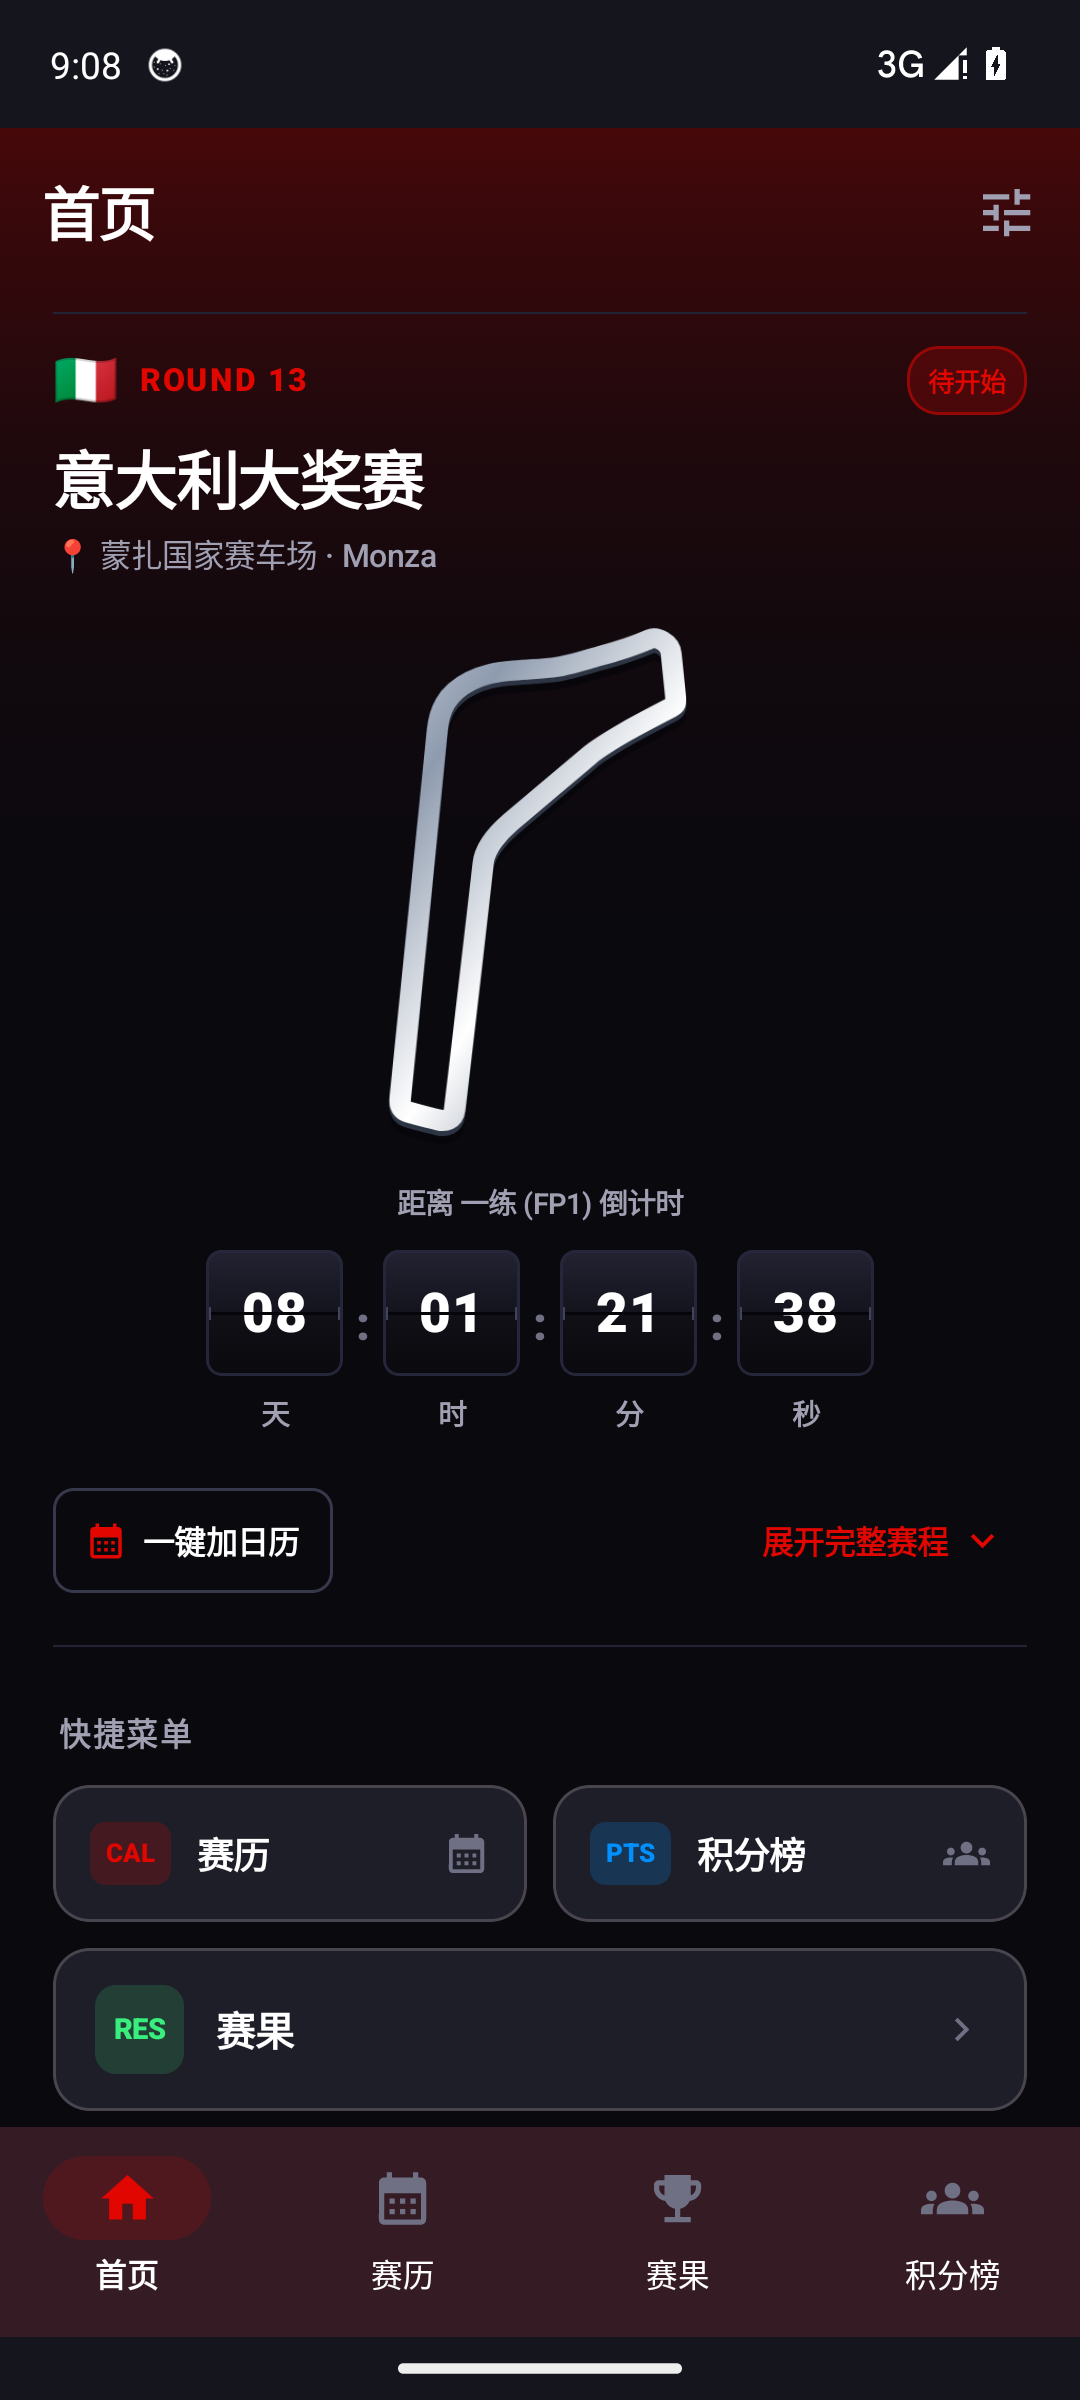
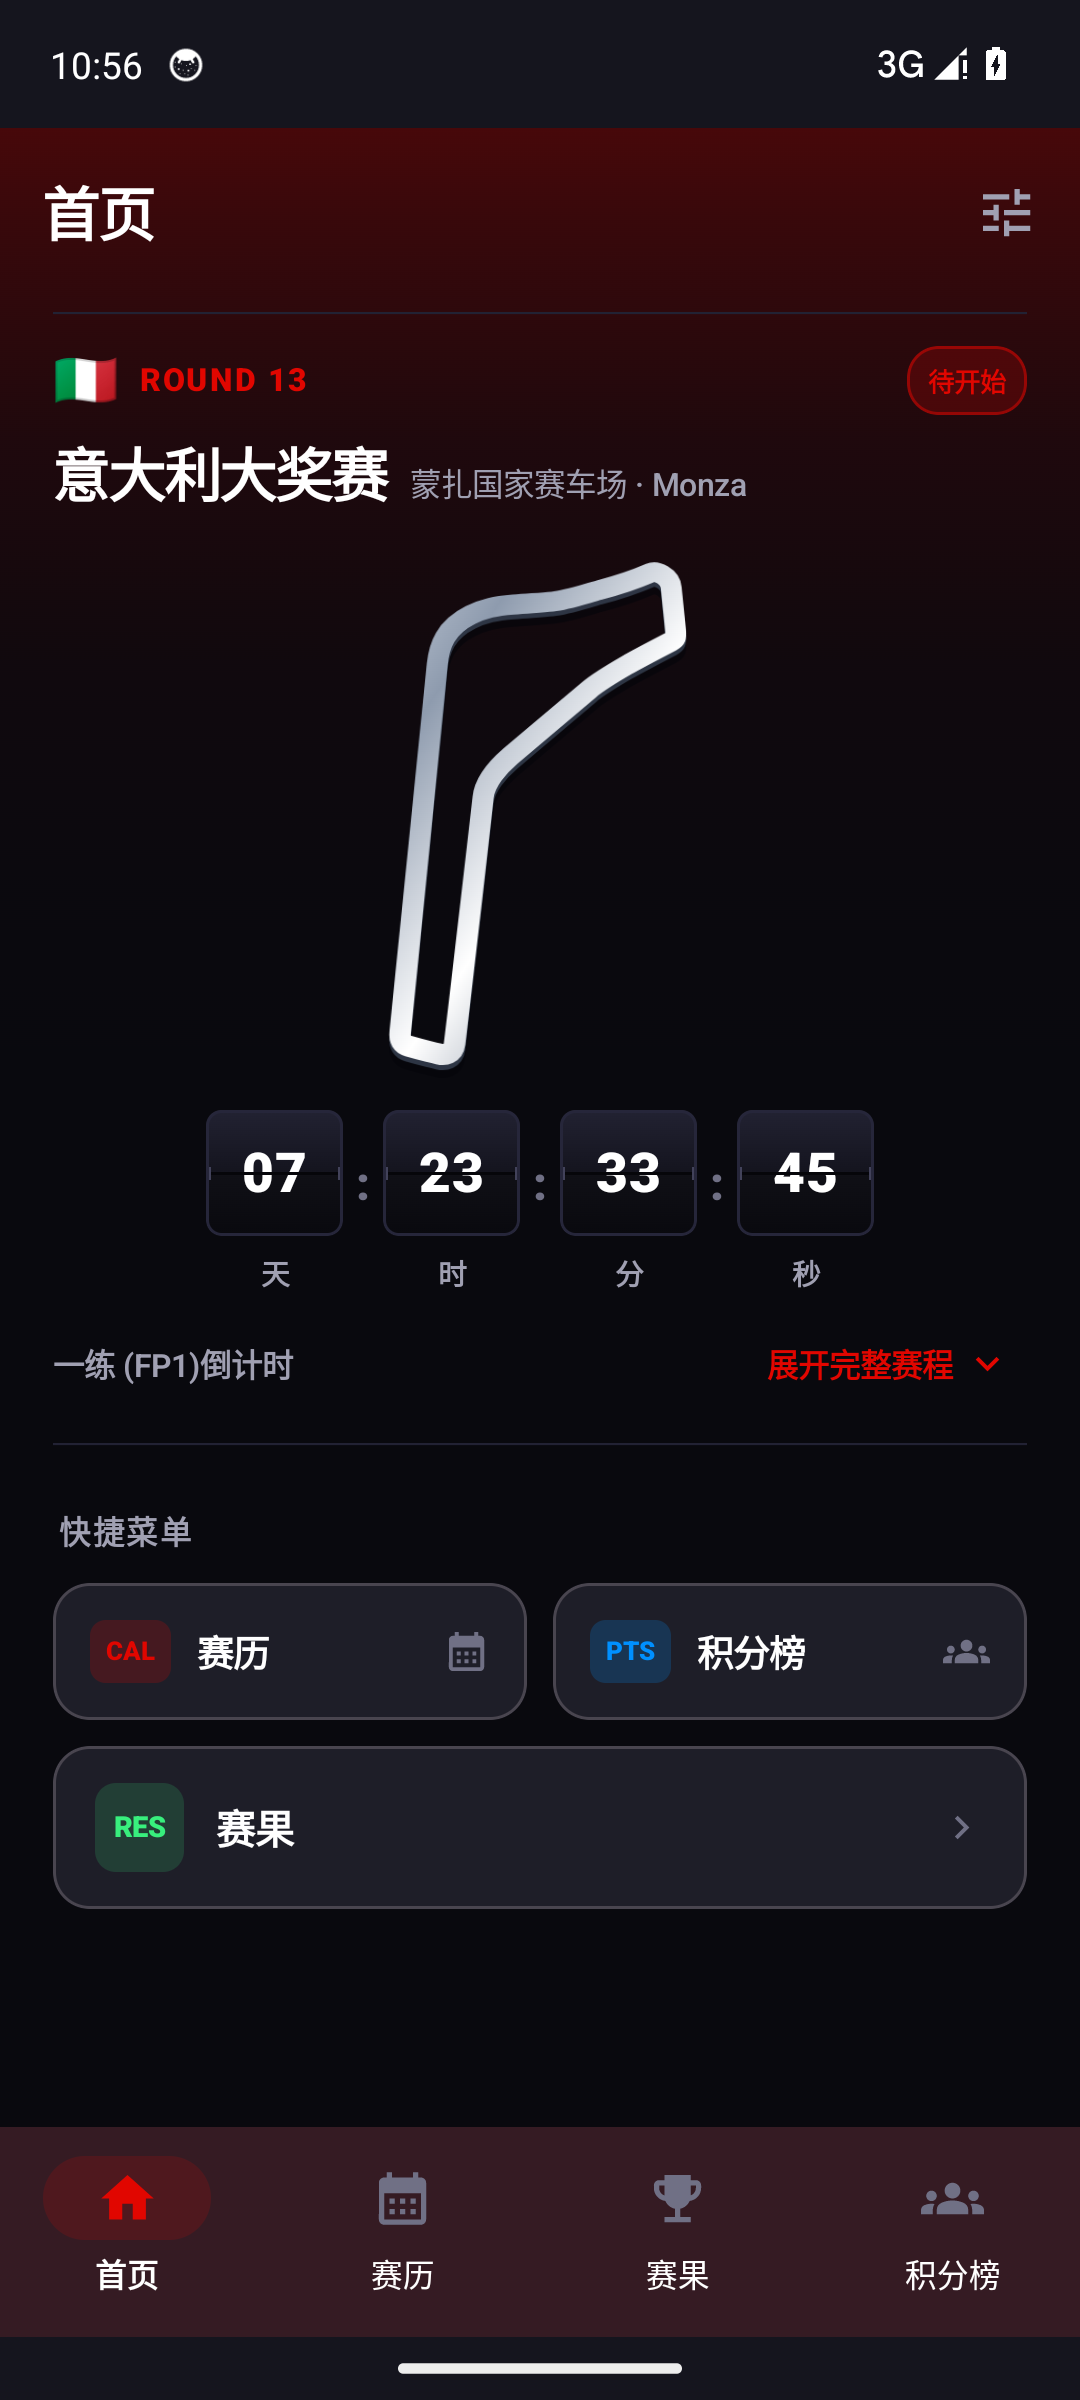
feat(ui): refine home layout and clean up non-essential emojis across codebase

Changed region(s): [[0.0306, 0.625, 0.9472, 0.9062], [0.0306, 0.1875, 0.8861, 0.5938], [0.0611, 0.0, 0.1833, 0.0312]]

diff --git a/app/src/main/java/com/f1watch/ui/home/HomeScreen.kt b/app/src/main/java/com/f1watch/ui/home/HomeScreen.kt
@@ -209,21 +209,28 @@ fun HeroNextRaceShowcase(
 
         Spacer(modifier = Modifier.height(6.dp))
 
-        // Grand Prix Title & Location
-        Text(
-            text = localizedRaceName,
-            color = F1TextWhite,
-            fontWeight = FontWeight.Black,
-            fontSize = 24.sp,
-            letterSpacing = (-0.5).sp
-        )
-        Text(
-            text = "📍 $localizedCircuitName · $localizedLocality",
-            color = F1TextSecondary,
-            fontSize = 12.sp,
-            fontWeight = FontWeight.Medium,
-            modifier = Modifier.padding(top = 2.dp)
-        )
+        // Grand Prix Title & Circuit Location on the Same Row
+        Row(
+            modifier = Modifier.fillMaxWidth(),
+            verticalAlignment = Alignment.Bottom
+        ) {
+            Text(
+                text = localizedRaceName,
+                color = F1TextWhite,
+                fontWeight = FontWeight.Black,
+                fontSize = 22.sp,
+                letterSpacing = (-0.5).sp
+            )
+            Spacer(modifier = Modifier.width(8.dp))
+            Text(
+                text = "$localizedCircuitName · $localizedLocality",
+                color = F1TextSecondary,
+                fontSize = 12.sp,
+                fontWeight = FontWeight.Medium,
+                modifier = Modifier.padding(bottom = 2.dp),
+                maxLines = 1
+            )
+        }
 
         Spacer(modifier = Modifier.height(10.dp))
 
@@ -241,14 +248,6 @@ fun HeroNextRaceShowcase(
             modifier = Modifier.fillMaxWidth(),
             horizontalAlignment = Alignment.CenterHorizontally
         ) {
-            Text(
-                text = if (countdown.isLive) "🟢 比赛进行中 (LIVE)" else "距离 ${countdown.targetSessionName} 倒计时",
-                color = F1TextSecondary,
-                fontSize = 11.sp,
-                fontWeight = FontWeight.SemiBold,
-                modifier = Modifier.padding(bottom = 8.dp)
-            )
-
             // 机械翻牌式倒计时板 (Split-Flap)
             F1TimingCountdownBoard(
                 countdown = countdown,
@@ -256,38 +255,26 @@ fun HeroNextRaceShowcase(
                 modifier = Modifier.fillMaxWidth()
             )
 
-            Spacer(modifier = Modifier.height(14.dp))
+            Spacer(modifier = Modifier.height(10.dp))
 
-            // Actions Row: Add to Calendar & Expand Timetable Toggle
+            // Actions Row: Target Session Countdown Label (Left) & Expand Timetable Toggle (Right)
             Row(
                 modifier = Modifier.fillMaxWidth(),
                 horizontalArrangement = Arrangement.SpaceBetween,
                 verticalAlignment = Alignment.CenterVertically
             ) {
-                OutlinedButton(
-                    onClick = onSyncCalendar,
-                    colors = ButtonDefaults.outlinedButtonColors(contentColor = F1TextWhite),
-                    border = ButtonDefaults.outlinedButtonBorder.copy(
-                        brush = Brush.horizontalGradient(listOf(F1CardBorder, F1CardBorder))
-                    ),
-                    shape = RoundedCornerShape(8.dp),
-                    contentPadding = androidx.compose.foundation.layout.PaddingValues(horizontal = 12.dp, vertical = 6.dp)
-                ) {
-                    Icon(
-                        imageVector = Icons.Default.CalendarMonth,
-                        contentDescription = "加日历",
-                        tint = themeColor,
-                        modifier = Modifier.size(16.dp)
-                    )
-                    Spacer(modifier = Modifier.width(6.dp))
-                    Text(text = "一键加日历", fontSize = 12.sp, fontWeight = FontWeight.Bold)
-                }
+                Text(
+                    text = if (countdown.isLive) "比赛进行中 (LIVE)" else "${countdown.targetSessionName}倒计时",
+                    color = if (countdown.isLive) F1GreenLive else F1TextSecondary,
+                    fontSize = 12.sp,
+                    fontWeight = FontWeight.SemiBold
+                )
 
                 Row(
                     modifier = Modifier
                         .clip(RoundedCornerShape(8.dp))
                         .clickable { onToggleExpand() }
-                        .padding(horizontal = 8.dp, vertical = 6.dp),
+                        .padding(horizontal = 6.dp, vertical = 4.dp),
                     verticalAlignment = Alignment.CenterVertically
                 ) {
                     Text(
@@ -309,16 +296,42 @@ fun HeroNextRaceShowcase(
 
         // Expandable Sessions List
         AnimatedVisibility(visible = isExpanded) {
-            Column(modifier = Modifier.padding(top = 12.dp)) {
+            Column(modifier = Modifier.padding(top = 10.dp)) {
                 HorizontalDivider(color = Color(0xFF222234), thickness = 0.5.dp)
                 Spacer(modifier = Modifier.height(10.dp))
 
-                Text(
-                    text = "本站完整周末时间表 (已转为本地时间)",
-                    color = F1TextSecondary,
-                    fontSize = 11.sp,
-                    fontWeight = FontWeight.Bold
-                )
+                Row(
+                    modifier = Modifier.fillMaxWidth(),
+                    horizontalArrangement = Arrangement.SpaceBetween,
+                    verticalAlignment = Alignment.CenterVertically
+                ) {
+                    Text(
+                        text = "本站赛表（本地时间）",
+                        color = F1TextSecondary,
+                        fontSize = 12.sp,
+                        fontWeight = FontWeight.Bold
+                    )
+
+                    OutlinedButton(
+                        onClick = onSyncCalendar,
+                        colors = ButtonDefaults.outlinedButtonColors(contentColor = F1TextWhite),
+                        border = ButtonDefaults.outlinedButtonBorder.copy(
+                            brush = Brush.horizontalGradient(listOf(F1CardBorder, F1CardBorder))
+                        ),
+                        shape = RoundedCornerShape(8.dp),
+                        contentPadding = androidx.compose.foundation.layout.PaddingValues(horizontal = 10.dp, vertical = 4.dp),
+                        modifier = Modifier.height(28.dp)
+                    ) {
+                        Icon(
+                            imageVector = Icons.Default.CalendarMonth,
+                            contentDescription = "加日历",
+                            tint = themeColor,
+                            modifier = Modifier.size(14.dp)
+                        )
+                        Spacer(modifier = Modifier.width(4.dp))
+                        Text(text = "加日历", fontSize = 11.sp, fontWeight = FontWeight.Bold)
+                    }
+                }
                 Spacer(modifier = Modifier.height(8.dp))
 
                 race.getAllSessions().forEach { session ->

diff --git a/app/src/main/java/com/f1watch/ui/components/F1Components.kt b/app/src/main/java/com/f1watch/ui/components/F1Components.kt
@@ -101,7 +101,7 @@ fun SessionStatusBadge(status: SessionStatus) {
         SessionStatus.LIVE -> Triple(
             F1GreenLive.copy(alpha = 0.2f),
             F1GreenLive,
-            "🟢 LIVE 进行中"
+            "LIVE 进行中"
         )
         SessionStatus.COMPLETED -> Triple(
             F1TextMuted.copy(alpha = 0.2f),
@@ -180,7 +180,7 @@ fun HeroNextRaceCard(
             )
 
             Text(
-                text = "📍 ${com.f1watch.util.F1Localization.getCircuitName(race.circuit.circuitName)} · ${com.f1watch.util.F1Localization.getLocality(race.circuit.locality)}",
+                text = "${com.f1watch.util.F1Localization.getCircuitName(race.circuit.circuitName)} · ${com.f1watch.util.F1Localization.getLocality(race.circuit.locality)}",
                 color = F1TextSecondary,
                 fontSize = 12.sp
             )
@@ -534,7 +534,7 @@ fun CircuitMapCard(
             verticalAlignment = Alignment.CenterVertically
         ) {
             Text(
-                text = "🏁 ${com.f1watch.util.F1Localization.getCircuitName(circuitName)}",
+                text = com.f1watch.util.F1Localization.getCircuitName(circuitName),
                 color = F1TextWhite,
                 fontWeight = FontWeight.Bold,
                 fontSize = 11.sp
@@ -621,7 +621,7 @@ fun F1TimingCountdownBoard(
             )
             Spacer(modifier = Modifier.width(10.dp))
             Text(
-                text = "🟢 ${countdown.targetSessionName} 正在进行中 (LIVE)",
+                text = "${countdown.targetSessionName} 正在进行中 (LIVE)",
                 color = F1TextWhite,
                 fontWeight = FontWeight.Black,
                 fontSize = 13.sp

diff --git a/app/src/main/java/com/f1watch/ui/standings/StandingsScreen.kt b/app/src/main/java/com/f1watch/ui/standings/StandingsScreen.kt
@@ -21,6 +21,7 @@ import androidx.compose.foundation.shape.CircleShape
 import androidx.compose.foundation.shape.RoundedCornerShape
 import androidx.compose.material.icons.Icons
 import androidx.compose.material.icons.filled.Refresh
+import androidx.compose.material.icons.filled.Leaderboard
 import androidx.compose.material3.Card
 import androidx.compose.material3.CardDefaults
 import androidx.compose.material3.CircularProgressIndicator
@@ -417,9 +418,11 @@ fun EmptyStandingsNotice(title: String) {
         contentAlignment = Alignment.Center
     ) {
         Column(horizontalAlignment = Alignment.CenterHorizontally) {
-            Text(
-                text = "🏎",
-                fontSize = 36.sp
+            Icon(
+                imageVector = Icons.Default.Leaderboard,
+                contentDescription = null,
+                tint = F1TextMuted,
+                modifier = Modifier.size(36.dp)
             )
             Spacer(modifier = Modifier.height(12.dp))
             Text(

diff --git a/app/src/main/java/com/f1watch/ui/results/ResultsScreen.kt b/app/src/main/java/com/f1watch/ui/results/ResultsScreen.kt
@@ -178,7 +178,7 @@ fun ResultsScreen(
                                     fontSize = 18.sp
                                 )
                                 Text(
-                                    text = "📍 ${com.f1watch.util.F1Localization.getCircuitName(race.circuit.circuitName)} · ${race.date}",
+                                    text = "${com.f1watch.util.F1Localization.getCircuitName(race.circuit.circuitName)} · ${race.date}",
                                     color = F1TextSecondary,
                                     fontSize = 12.sp
                                 )
@@ -296,7 +296,7 @@ fun PodiumSection(p1: RaceResult, p2: RaceResult, p3: RaceResult) {
     ) {
         Column(modifier = Modifier.padding(14.dp)) {
             Text(
-                text = "🏆 领奖台前三名",
+                text = "领奖台前三名",
                 color = F1TextWhite,
                 fontWeight = FontWeight.Black,
                 fontSize = 14.sp

diff --git a/app/src/main/java/com/f1watch/domain/CalendarSyncManager.kt b/app/src/main/java/com/f1watch/domain/CalendarSyncManager.kt
@@ -78,7 +78,7 @@ object CalendarSyncManager {
                 val values = ContentValues().apply {
                     put(CalendarContract.Events.DTSTART, startMillis)
                     put(CalendarContract.Events.DTEND, endMillis)
-                    put(CalendarContract.Events.TITLE, "🏎 F1: ${race.raceName} - ${session.shortName}")
+                    put(CalendarContract.Events.TITLE, "F1: ${race.raceName} - ${session.shortName}")
                     put(CalendarContract.Events.DESCRIPTION, "F1 2026 Round ${race.round}: ${race.raceName}\n${session.name}\n赛道: ${race.circuit.circuitName}")
                     put(CalendarContract.Events.EVENT_LOCATION, "${race.circuit.circuitName}, ${race.circuit.country}")
                     put(CalendarContract.Events.CALENDAR_ID, calendarId)

diff --git a/app/src/main/java/com/f1watch/ui/settings/SettingsScreen.kt b/app/src/main/java/com/f1watch/ui/settings/SettingsScreen.kt
@@ -486,7 +486,7 @@ fun SettingsScreen(
                                 .border(1.dp, F1GreenLive, RoundedCornerShape(12.dp))
                                 .padding(horizontal = 8.dp, vertical = 2.dp)
                         ) {
-                            Text(text = "🟢 畅通", color = F1GreenLive, fontSize = 10.sp, fontWeight = FontWeight.Bold)
+                            Text(text = "畅通", color = F1GreenLive, fontSize = 10.sp, fontWeight = FontWeight.Bold)
                         }
                     }
 

diff --git a/app/src/main/java/com/f1watch/widget/F1ScheduleWidget.kt b/app/src/main/java/com/f1watch/widget/F1ScheduleWidget.kt
@@ -206,7 +206,7 @@ fun ScheduleWidgetContent(
                             contentAlignment = Alignment.Center
                         ) {
                             Text(
-                                text = "🏎",
+                                text = race?.circuit?.flagEmoji ?: "🏁",
                                 style = TextStyle(fontSize = 20.sp)
                             )
                         }

diff --git a/app/src/main/java/com/f1watch/ui/settings/WidgetCustomizerSheet.kt b/app/src/main/java/com/f1watch/ui/settings/WidgetCustomizerSheet.kt
@@ -81,7 +81,7 @@ fun WidgetCustomizerSheet(
                 .verticalScroll(rememberScrollState())
         ) {
             Text(
-                text = "🎨 桌面小组件个性化定制",
+                text = "桌面小组件个性化定制",
                 fontWeight = FontWeight.Black,
                 color = F1TextWhite,
                 fontSize = 18.sp

diff --git a/app/src/main/java/com/f1watch/domain/CountdownCalculator.kt b/app/src/main/java/com/f1watch/domain/CountdownCalculator.kt
@@ -39,7 +39,7 @@ object CountdownCalculator {
                 isLive = true,
                 targetSessionName = liveSession.name,
                 formattedCompact = "LIVE 进行中",
-                formattedLong = "${liveSession.name} 正在进行中 🟢"
+                formattedLong = "${liveSession.name} 正在进行中 (LIVE)"
             )
         }
 
